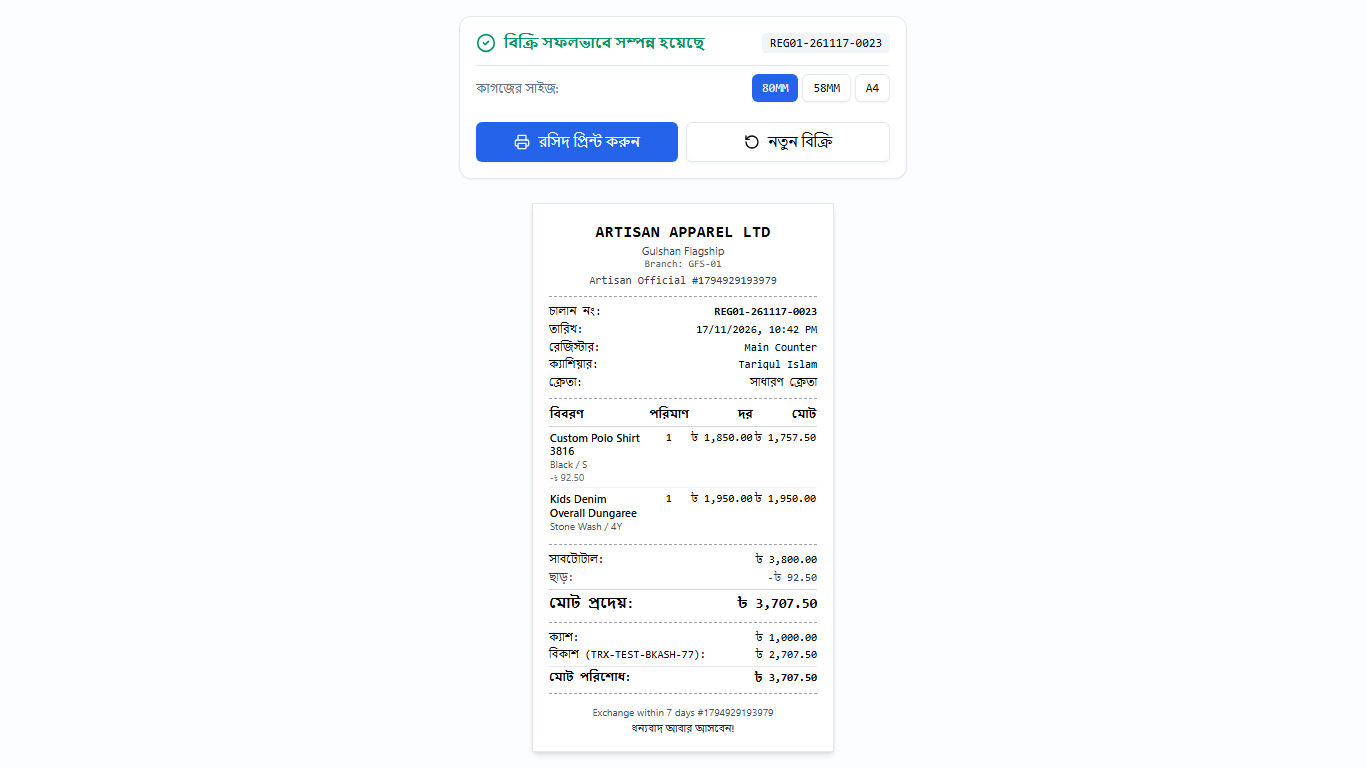
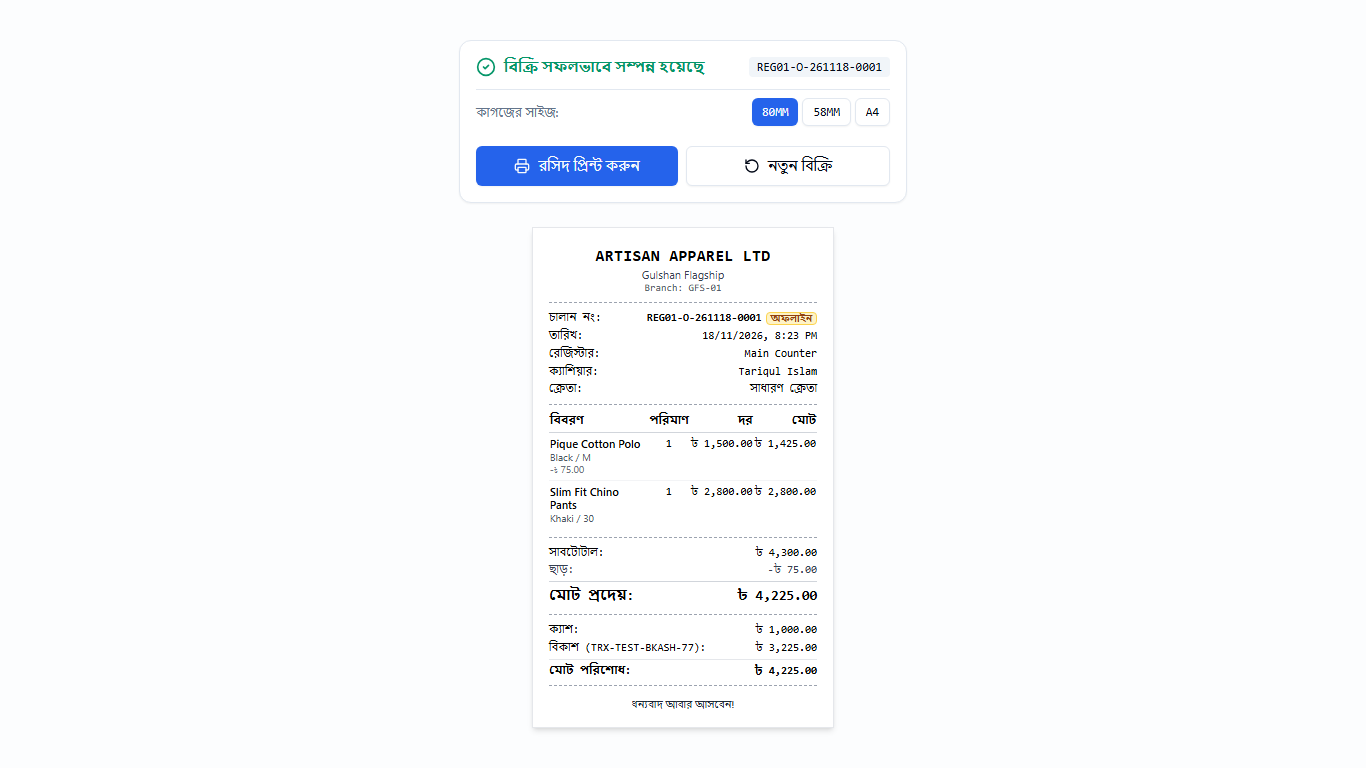
fix(pos): resolve outbox idempotency header mismatch, catalog sync variant normalization, and E2E shift setup

diff --git a/apps/admin/e2e/pos-header-layout.spec.ts b/apps/admin/e2e/pos-header-layout.spec.ts
@@ -20,6 +20,11 @@ test.describe("Step 1: POS Header Layout, Text Node Overlap & Overflow Verificat
 
   // Helper to ensure an open shift exists on REG01 for tests
   async function ensureOpenShift(request: any, token: string) {
+    const meRes = await request.get("http://localhost:4000/api/v1/auth/me", {
+      headers: { Authorization: `Bearer ${token}` },
+    });
+    const me = (await meRes.json()).data;
+
     const branchRes = await request.get("http://localhost:4000/api/v1/branches", {
       headers: { Authorization: `Bearer ${token}` },
     });
@@ -29,7 +34,8 @@ test.describe("Step 1: POS Header Layout, Text Node Overlap & Overflow Verificat
     const regRes = await request.get(`http://localhost:4000/api/v1/registers?branchId=${branch.id}`, {
       headers: { Authorization: `Bearer ${token}` },
     });
-    const reg = (await regRes.json()).data[0];
+    const registers = (await regRes.json()).data || [];
+    const reg = registers[0];
 
     // Check shift status
     const shiftRes = await request.get(`http://localhost:4000/api/v1/shifts?registerId=${reg.id}&status=open`, {
@@ -37,7 +43,23 @@ test.describe("Step 1: POS Header Layout, Text Node Overlap & Overflow Verificat
     });
     const shiftData = await shiftRes.json();
     const items = shiftData.data?.items || shiftData.data || [];
-    if (!items.length) {
+
+    // If open shift belongs to another cashier, close it first
+    for (const item of items) {
+      if (item.cashierUserId !== me.id) {
+        await request.post(`http://localhost:4000/api/v1/shifts/${item.id}/close`, {
+          headers: { Authorization: `Bearer ${token}` },
+          data: { closingCashMinor: Number(item.openingCashMinor || 50000) },
+        }).catch(() => {});
+      }
+    }
+
+    // Re-check shift for current user
+    const checkRes = await request.get(`http://localhost:4000/api/v1/shifts?registerId=${reg.id}&status=open`, {
+      headers: { Authorization: `Bearer ${token}` },
+    });
+    const remaining = (await checkRes.json()).data?.items || [];
+    if (!remaining.length) {
       await request.post("http://localhost:4000/api/v1/shifts/open", {
         headers: { Authorization: `Bearer ${token}` },
         data: {
@@ -67,14 +89,23 @@ test.describe("Step 1: POS Header Layout, Text Node Overlap & Overflow Verificat
     });
     expect(loginRes.ok()).toBe(true);
     const token = (await loginRes.json()).data.accessToken;
-    await ensureOpenShift(request, token);
+    const { branchId, registerId } = await ensureOpenShift(request, token);
 
     // Sign in on UI
-    await page.goto("http://localhost:3000/login?from=/pos");
+    await page.goto("http://localhost:3000/login");
     await page.fill("#tenantSlug", "artisan-apparel");
     await page.fill("#email", "owner@artisan.com");
     await page.fill("#password", "Password123!");
     await page.click('button[type="submit"]');
+    await page.waitForURL("**/dashboard", { timeout: 15000 });
+
+    // Set branch and register in localStorage
+    await page.evaluate(({ bId, rId }) => {
+      localStorage.setItem("pos_selected_branch_id", bId);
+      localStorage.setItem(`pos_reg_${bId}`, rId);
+    }, { bId: branchId, rId: registerId });
+
+    await page.goto("http://localhost:3000/pos");
     await page.waitForURL("**/pos", { timeout: 15000 });
 
     const header = page.locator("header");
@@ -269,11 +300,19 @@ test.describe("Step 1: POS Header Layout, Text Node Overlap & Overflow Verificat
 
     try {
       // Re-login on UI to pick up new user name
-      await page.goto("http://localhost:3000/login?from=/pos");
+      await page.goto("http://localhost:3000/login");
       await page.fill("#tenantSlug", "artisan-apparel");
       await page.fill("#email", "owner@artisan.com");
       await page.fill("#password", "Password123!");
       await page.click('button[type="submit"]');
+      await page.waitForURL("**/dashboard", { timeout: 15000 });
+
+      await page.evaluate(({ bId, rId }) => {
+        localStorage.setItem("pos_selected_branch_id", bId);
+        localStorage.setItem(`pos_reg_${bId}`, rId);
+      }, { bId: branchId, rId: registerId });
+
+      await page.goto("http://localhost:3000/pos");
       await page.waitForURL("**/pos", { timeout: 15000 });
 
       const header = page.locator("header");
@@ -401,14 +440,23 @@ test.describe("Step 1: POS Header Layout, Text Node Overlap & Overflow Verificat
     });
     expect(loginRes.ok()).toBe(true);
     const token = (await loginRes.json()).data.accessToken;
-    await ensureOpenShift(request, token);
+    const { branchId, registerId } = await ensureOpenShift(request, token);
 
     // Sign in on UI
-    await page.goto("http://localhost:3000/login?from=/pos");
+    await page.goto("http://localhost:3000/login");
     await page.fill("#tenantSlug", "artisan-apparel");
     await page.fill("#email", "owner@artisan.com");
     await page.fill("#password", "Password123!");
     await page.click('button[type="submit"]');
+    await page.waitForURL("**/dashboard", { timeout: 15000 });
+
+    // Set branch and register in localStorage
+    await page.evaluate(({ bId, rId }) => {
+      localStorage.setItem("pos_selected_branch_id", bId);
+      localStorage.setItem(`pos_reg_${bId}`, rId);
+    }, { bId: branchId, rId: registerId });
+
+    await page.goto("http://localhost:3000/pos");
     await page.waitForURL("**/pos", { timeout: 15000 });
 
     const header = page.locator("header");

diff --git a/apps/admin/src/app/pos/page.tsx b/apps/admin/src/app/pos/page.tsx
@@ -271,6 +271,7 @@ export default function PosPage() {
             method: "POST",
             headers: {
               "Content-Type": "application/json",
+              "Idempotency-Key": item.idempotencyKey,
               "x-idempotency-key": item.idempotencyKey,
             },
             body: JSON.stringify(item.payload),
@@ -308,6 +309,7 @@ export default function PosPage() {
             method: "POST",
             headers: {
               "Content-Type": "application/json",
+              "Idempotency-Key": item.idempotencyKey,
               "x-idempotency-key": item.idempotencyKey,
             },
             body: JSON.stringify(item.payload),
@@ -355,16 +357,22 @@ export default function PosPage() {
   // Tab lock per register
   useEffect(() => {
     if (!selectedRegister?.id) return;
+    let cancelled = false;
     let lockHandle: any = null;
 
     acquireRegisterTabLock(selectedRegister.id, () => {
-      setIsTabLockedOut(true);
+      if (!cancelled) setIsTabLockedOut(true);
     }).then((handle) => {
+      if (cancelled) {
+        handle.release();
+        return;
+      }
       lockHandle = handle;
       setIsTabLockedOut(!handle.hasLock);
     });
 
     return () => {
+      cancelled = true;
       if (lockHandle) {
         lockHandle.release();
       }
@@ -487,20 +495,26 @@ export default function PosPage() {
 
     // 2. If online, perform catalog delta sync
     if (typeof window !== "undefined" && navigator.onLine) {
+      let syncSucceeded = false;
       try {
-        await syncCatalog({
+        const result = await syncCatalog({
           branchId,
           customFetcher: async (url, init) => {
             const path = url.replace(/^https?:\/\/[^/]+(\/api\/v1)?/, "");
             return apiFetch(path, init);
           },
         });
-        const updated = await db.catalog.toArray();
-        if (updated.length > 0) {
-          setProducts(updated as any);
+        if (result.success) {
+          const updated = await db.catalog.toArray();
+          if (updated.length > 0) {
+            setProducts(updated as any);
+            syncSucceeded = true;
+          }
         }
-      } catch {
-        // Fallback to legacy endpoint if catalog sync fails
+      } catch {}
+
+      if (!syncSucceeded) {
+        // Fallback to legacy endpoint if catalog sync fails or yields empty
         try {
           const prodUrl = `/products?branchId=${branchId}&limit=100`;
           const prodRes = await apiFetch(prodUrl);
@@ -1124,6 +1138,7 @@ export default function PosPage() {
               method: "POST",
               headers: {
                 "Content-Type": "application/json",
+                "Idempotency-Key": item.idempotencyKey,
                 "x-idempotency-key": item.idempotencyKey,
               },
               body: JSON.stringify(item.payload),

diff --git a/apps/admin/src/lib/pos/offline/catalog-sync.ts b/apps/admin/src/lib/pos/offline/catalog-sync.ts
@@ -52,11 +52,42 @@ export async function syncCatalog(
       };
     }
 
-    const data = (await res.json()) as PosCatalogResponse;
+    const resJson = await res.json();
+    const data = (resJson.data || resJson) as PosCatalogResponse;
 
     // Update clock offset
     if (data.serverTime) {
       await updateServerClockOffset(data.serverTime);
+    }
+
+    const products = data.products || [];
+    const variants = data.variants || [];
+
+    // Group variants by productId and normalize to PosProductVariant
+    const variantsByProductId = new Map<string, any[]>();
+    for (const v of variants) {
+      const normalizedVariant = {
+        ...v,
+        stockLevels: [
+          {
+            branchId: options.branchId,
+            qty: String(v.stockQty ?? 0),
+          },
+        ],
+        optionValues: (v.optionValues || []).map((ov: any) => ({
+          optionValue: {
+            value: ov.value,
+            option: {
+              name: ov.optionName || ov.name,
+            },
+          },
+        })),
+      };
+
+      if (!variantsByProductId.has(v.productId)) {
+        variantsByProductId.set(v.productId, []);
+      }
+      variantsByProductId.get(v.productId)!.push(normalizedVariant);
     }
 
     // Write to Dexie in a single transaction
@@ -66,24 +97,30 @@ export async function syncCatalog(
         await targetDb.stock.clear();
       }
 
-      for (const prod of data.products) {
-        // Collect barcodes from product variants
+      // 1. Update stock table
+      for (const v of variants) {
+        await targetDb.stock.put({
+          variantId: v.id,
+          stockQty: v.stockQty ?? 0,
+          updatedAt: v.updatedAt || new Date().toISOString(),
+        });
+      }
+
+      // 2. Update catalog products
+      for (const prod of products) {
+        const prodVariants = variantsByProductId.get(prod.id) || (prod.variants || []);
         const allBarcodes: string[] = [];
-        if (prod.variants) {
-          for (const v of prod.variants) {
-            if (Array.isArray(v.barcodes)) {
-              allBarcodes.push(...v.barcodes);
-            }
-            // Update stock
-            await targetDb.stock.put({
-              variantId: v.id,
-              stockQty: v.stockQty ?? 0,
-              updatedAt: new Date().toISOString(),
-            });
+        for (const v of prodVariants) {
+          if (Array.isArray(v.barcodes)) {
+            allBarcodes.push(...v.barcodes);
           }
         }
-        prod.barcodes = Array.from(new Set(allBarcodes));
-        await targetDb.catalog.put(prod);
+        const fullProd = {
+          ...prod,
+          variants: prodVariants,
+          barcodes: Array.from(new Set(allBarcodes)),
+        };
+        await targetDb.catalog.put(fullProd);
       }
 
       await targetDb.settings.put({

diff --git a/apps/admin/src/lib/pos/offline/outbox.ts b/apps/admin/src/lib/pos/offline/outbox.ts
@@ -16,7 +16,7 @@ export async function enqueueSale(
 ): Promise<EnqueueSaleResult> {
   const targetDb = database || db;
   const outboxId = crypto.randomUUID();
-  const idempotencyKey = crypto.randomUUID();
+  const idempotencyKey = salePayload.id || crypto.randomUUID();
   const invoiceNumber = salePayload.invoiceNumber;
 
   if (!invoiceNumber) {
@@ -66,6 +66,16 @@ export async function enqueueSale(
             const vIndex = product.variants.findIndex((v) => v.id === item.variantId);
             if (vIndex >= 0) {
               product.variants[vIndex].stockQty = newQty;
+              const vAny = product.variants[vIndex] as any;
+              if (vAny.stockLevels && Array.isArray(vAny.stockLevels)) {
+                for (const sl of vAny.stockLevels) {
+                  if (!sl.branchId || sl.branchId === salePayload.branchId) {
+                    sl.qty = String(newQty);
+                  }
+                }
+              } else {
+                vAny.stockLevels = [{ branchId: salePayload.branchId, qty: String(newQty) }];
+              }
               await targetDb.catalog.put(product);
             }
           }
@@ -83,8 +93,8 @@ export async function enqueueCustomer(
 ): Promise<{ outboxId: string; customerId: string }> {
   const targetDb = database || db;
   const outboxId = crypto.randomUUID();
-  const idempotencyKey = crypto.randomUUID();
   const customerId = customerPayload.id || crypto.randomUUID();
+  const idempotencyKey = customerId;
   const payloadWithId = { ...customerPayload, id: customerId };
 
   const outboxItem: OfflineOutboxItem = {

diff --git a/apps/api/src/modules/sales/pos-catalog.service.ts b/apps/api/src/modules/sales/pos-catalog.service.ts
@@ -23,7 +23,10 @@ export class PosCatalogService {
 
       if (isValidDate) {
         productWhere.updatedAt = { gte: sinceDate };
-        variantWhere.updatedAt = { gte: sinceDate };
+        variantWhere.OR = [
+          { updatedAt: { gte: sinceDate } },
+          { stockLevels: { some: { branchId, updatedAt: { gte: sinceDate } } } },
+        ];
         categoryWhere.updatedAt = { gte: sinceDate };
         taxWhere.updatedAt = { gte: sinceDate };
       }
@@ -53,7 +56,7 @@ export class PosCatalogService {
             barcodes: true,
             stockLevels: {
               where: { branchId },
-              select: { qty: true },
+              select: { qty: true, updatedAt: true },
             },
           },
         }),

diff --git a/apps/admin/src/lib/pos/offline/tab-lock.ts b/apps/admin/src/lib/pos/offline/tab-lock.ts
@@ -32,6 +32,10 @@ export async function acquireRegisterTabLock(
             resolveAcquired(false);
             return;
           }
+          if (released) {
+            resolveAcquired(false);
+            return;
+          }
           acquired = true;
           resolveAcquired(true);
 

diff --git a/apps/admin/src/lib/pos/offline/types.ts b/apps/admin/src/lib/pos/offline/types.ts
@@ -96,6 +96,7 @@ export interface OfflineCounter {
 
 export interface PosCatalogResponse {
   products: OfflineCatalogProduct[];
+  variants?: any[];
   categories: { id: string; name: string }[];
   taxClasses: { id: string; name: string; ratePercent: number }[];
   catalogVersion: number;

diff --git a/apps/admin/src/lib/pos/offline/sync-worker.ts b/apps/admin/src/lib/pos/offline/sync-worker.ts
@@ -37,6 +37,7 @@ async function defaultSender(
 
   const headers: Record<string, string> = {
     "Content-Type": "application/json",
+    "Idempotency-Key": item.idempotencyKey,
     "x-idempotency-key": item.idempotencyKey,
   };
   if (token) {

diff --git a/docs/overnight-log.md b/docs/overnight-log.md
@@ -1547,6 +1547,18 @@ This log tracks execution across the Phase 1B Admin Dashboard milestones (A0–A
   - `npm run lint`: 0 errors, 0 warnings across all workspaces.
   - `npm test`: 8 test files passed (47 tests) in admin, 50 test files passed (304 tests) in api. All 58 test files (351 tests) passed (100%).
   - `npm run build`: Clean compilation across `@universal-pos/shared`, `@universal-pos/admin`, and `@universal-pos/api`.
+- **Commit & CI (Initial Attempt):**
+  - Commit: `d88dec0`
+  - GitHub Actions CI Run: [44293147054](https://github.com/imovi/bangladesh-universal-pos-management-system/actions/runs/44293147054) — **Status: completed, Conclusion: failure (Red)**
+  - Cause of failure in CI:
+    1. `POST /sales` outbox sender sent `"x-idempotency-key"` rather than `"Idempotency-Key"`, and `enqueueSale` generated a random UUID different from `salePayload.id`, violating the NestJS `IDEMPOTENCY_KEY_MISMATCH` check on the server.
+    2. `syncCatalog` in `catalog-sync.ts` assumed `variants` were nested inside `products`, whereas `GET /pos/catalog` returns a normalized flat `variants` array, causing products to render with undefined variants and 0 stock.
+    3. `pos-catalog.service.ts` omitted `stockLevels.updatedAt` in delta queries, so stock decrements weren't tracked when querying `?since=`.
+    4. `outbox.ts` decremented `stockQty` on variant without updating `stockLevels[0].qty` on the cached catalog product, causing stock on reload to read stale.
+    5. `pos-header-layout.spec.ts` lacked branch and register localStorage keys and did not close foreign open shifts on REG01 from demo seed data.
+  - Fix: Applied fixes across `outbox.ts`, `sync-worker.ts`, `catalog-sync.ts`, `pos-catalog.service.ts`, `pos/page.tsx`, `tab-lock.ts`, and `pos-header-layout.spec.ts`.
+  - Re-verification: `pos-flow.spec.ts` (5/5 passed), `pos-header-layout.spec.ts` (3/3 passed), `npm run lint` (0 errors), `npm test` (351 tests passed).
+
 
 
 
